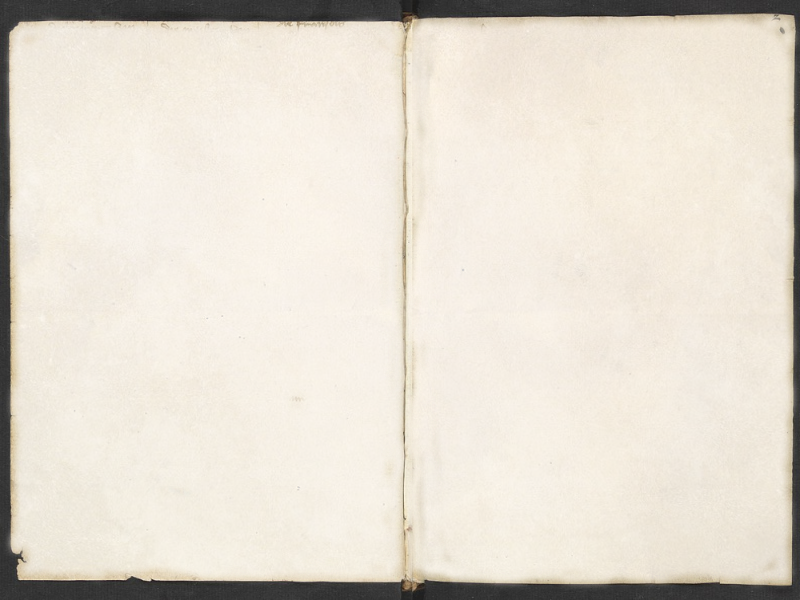
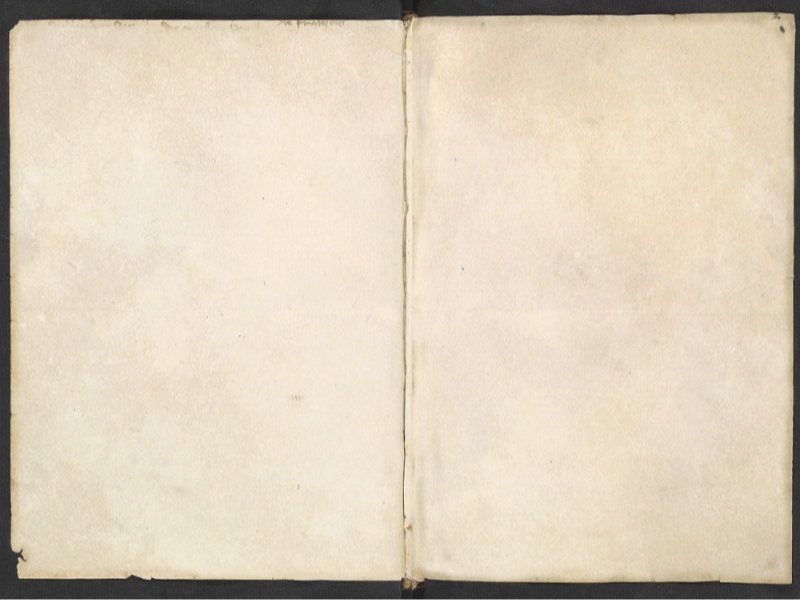
Fix page overlay strength

diff --git a/blazon_language/rendering/draw_blazon_list.py b/blazon_language/rendering/draw_blazon_list.py
@@ -58,7 +58,8 @@ class DrawBlazonList:
             # get new crest position
             self.get_new_position()
 
-        self.print_page()
+        if not self.new_page:
+            self.print_page()
 
     def get_new_position(self):
         printbox = self.settings.printboxes[self.cur_printbox]
@@ -99,6 +100,7 @@ class DrawBlazonList:
         self.new_page = True
 
     def create_new_page(self):
+        print("----Creating new page")
         self.new_page = False
         self.pages += 1
 
@@ -107,6 +109,7 @@ class DrawBlazonList:
         self.context.fill()
 
     def draw_blazon_in_image(self, blazon):
+        print("Draw Blazon")
         blazon.shape = self.settings.shapes[self.shape_index]
         blazon_guid = make_blazon_image(blazon, self.settings.image_overlay)
 
@@ -129,6 +132,7 @@ class DrawBlazonList:
         delete_image_path(blazon_guid)
 
     def draw_page_overlay(self):
+        print("Draw Overlay")
         if self.settings.page_overlay:
             overlay = str(Path.joinpath(Path.cwd(), "blazon_language", "presets", "img",
                                         f"overlay_{self.settings.page_overlay}.png"))
